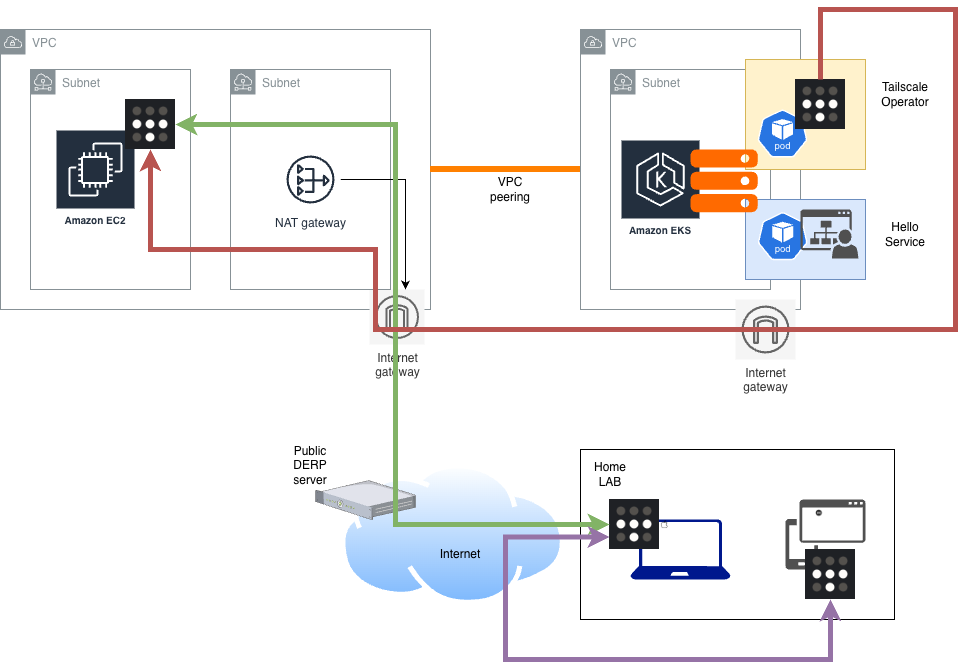
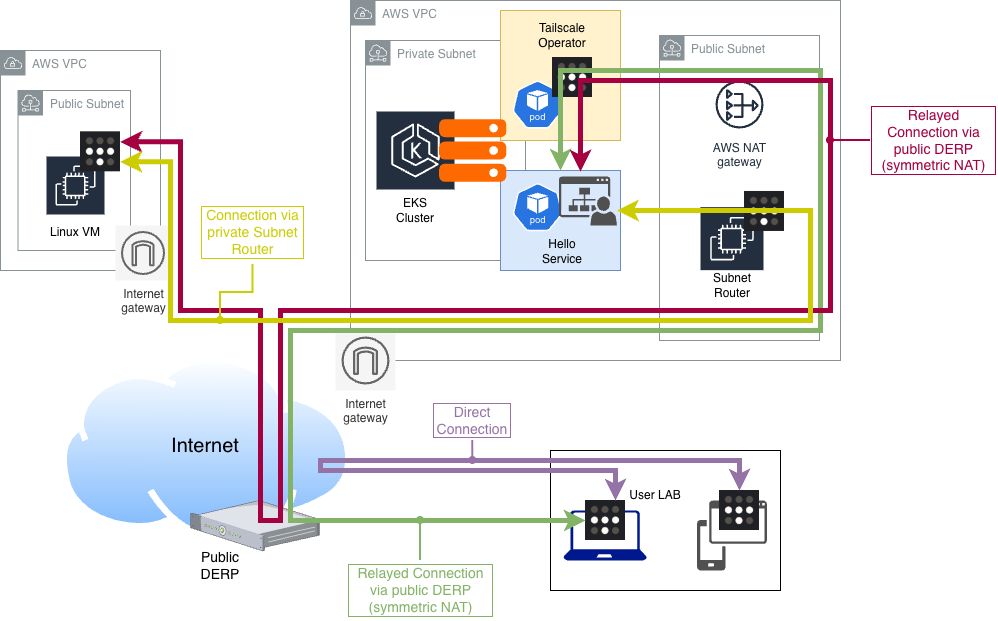
bug fixes, cleanup and design review

diff --git a/README.md b/README.md
@@ -1,19 +1,18 @@
-# Tailscale LAB for hybrid connectivity to AWS EKS
+# Tailscale Lab for hybrid connectivity to AWS EKS
 
-## Summary 
-The goal of this (very first) lab is to evaluate the following:
-* Set a CI/CD pipeline that will deploy the hybrid AWS environment using Tailscale for connectivity
-* Deploy the AWS environment (EKS + VM) and bootstrap as much as possible (both the EKS cluster as well as the basic Tailscale onboarding).
-* Include quick code toggles in the pipeline to avoid hard NAT.
-* Use basic tools to confirm connectivity and evaluate latency: ping/icmp.
-* Leverage iperf3 to test bandwidth when Tailscale connects over peering instead of IGW.
+## Summary
+This first lab evaluates the following:
+- Set up a CI/CD pipeline that deploys the hybrid AWS environment using Tailscale for connectivity.
+- Deploy the AWS environment (EKS + VM) and bootstrap as much as possible (EKS cluster and basic Tailscale onboarding).
+- Use basic tools to confirm connectivity and measure latency (ping/icmp).
 
-It is not in the scope of this Lab:
-* Harden the EKS setup as much as possible: avoid public access/endpoints and adopt a more minimalist approach instead of using the default AWS module.
-* Automate the initial onboarding of Tailscale. The lab uses a pre-existing *tsnet*.
-* Integrate Taiscale logging with Grafana to improve the performance analysis/visualization.
+Out of scope for this lab:
+- Harden the EKS setup for production (avoid public access/endpoints and adopt a minimalist approach instead of using the default AWS module).
+- Automate the initial onboarding of Tailscale; the lab uses a pre-existing *tsnet*.
+- Use iperf3 to test bandwidth when Tailscale connects via a subnet router instead of public DERP.
+- Integrate Tailscale logging with Grafana for performance analysis/visualization.
 
-**Note:** This repository first commit was 100% generated by GitHub CoPilot in less than 15m with less than 5 prompts detailing design and the separate modules: secrets, runner and the lab itself. It took me another day of work to review code, test, troubleshoot and fix bugs before I could finally leverage the lab to achieve the main goal to validate networking stats of Tailscale in AWS hybrid environment over hard and easy NATs.
+**Note:** This repository first commit was 100% generated by GitHub CoPilot in less than 15m with less than 5 prompts detailing design and its modules: secrets, runner and the lab itself. Another day of work was spent to review code, test, troubleshoot and fix bugs before the lab could be finally be leveraged to achieve the main goal to verify Tailscale newtorking in AWS hybrid environment with NAT gateway.
 
 
 ## LAB Topology
@@ -29,27 +28,27 @@ A slightly improved version (made by humans with draw.io):
 ## Repository Structure
 
 ### Folders created:
-- `terraform/runner`: Terraform to launch an EC2 instance to serve as self-hosted GitActions runner. 
-- `terraform/github-secrets`: Terraform to create GitHub Actions repository secrets to store AWS and Tailscale credentials that will be safely consumed by the pipeline. This workspace implies a local Terraform apply.
+- `terraform/runner`: Terraform to launch an EC2 instance to serve as a self-hosted GitHub Actions runner.
+- `terraform/github-secrets`: Terraform to create GitHub Actions repository secrets to store AWS and Tailscale credentials for the pipeline. This workspace implies a local `terraform apply` to upload secrets.
 
 ### Notes and caveats:
 - Set credentials via environment variables or `terraform.tfvars` when running locally. For the GitHub secrets module you must provide a `github_token` with sufficient scope and `github_owner` + `repository` where the secrets will be stored.
-- The GitHub Actions workflow reads AWS credentials from repository secrets named `AWS_ACCESS_KEY_ID`, `AWS_SECRET_ACCESS_KEY`, and `AWS_SESSION_TOKEN` while the Tailscale credentials are passed as TF_vars.
-- The lab module `terraform/lab` creates two VPCs in Oregon (`us-west-2`) and VPC peering between them. The `server` VPC contains an EKS cluster (small nodes) with a simple "hello world" deployment and the Tailscale Operator. The `client` VPC contains a Linux VM with the Tailscale client installed and configured to use `TF_VAR_tailscale_auth_key`.
+- The GitHub Actions workflow reads AWS credentials from repository secrets named `AWS_ACCESS_KEY_ID`, `AWS_SECRET_ACCESS_KEY`, and `AWS_SESSION_TOKEN`. Tailscale credentials are passed as TF_vars.
+- The `terraform/lab` module creates two VPCs in Oregon (`us-west-2`). The `server` VPC contains an EKS cluster (small nodes), a simple "hello world" deployment, and the Tailscale Operator. The `client` VPC contains a Linux VM with the Tailscale client installed and configured using `TF_VAR_tailscale_auth_key`.
 
 - The `terraform/lab` Terraform scope details:
-    - Builds two VPCs (`server` and `client`) and peering between them.
-    - Creates an EKS cluster in the `server` VPC and deploys a basic `hello` app plus the Tailscale Operator via Helm.
-    - Creates a Linux VM in a private subnet of the `client` VPC that connects to the internet via a NAT gateway and runs the Tailscale client.
-    - Provides an optional Tailscale subnet-router instance in the `client` public subnet (toggle with `TF_VAR_tailscale_subnet_router_enable`). When enabled the router will advertise the `client` VPC private subnets to Tailscale using `TF_VAR_tailscale_auth_key`.
+    - Builds two VPCs (`server` and `client`).
+    - Creates an EKS cluster in the `server` VPC and deploys a basic `hello` app and the Tailscale Operator via Helm.
+    - Creates a Linux VM in the `client` VPC that connects to the internet and runs the Tailscale client.
+    - Provides an optional Tailscale subnet-router instance (toggle with `TF_VAR_tailscale_subnet_router_enable`). When enabled, the router will advertise the `client` VPC private subnets to Tailscale using `TF_VAR_tailscale_auth_key`.
 
-- The EKS module used depends on community modules (`terraform-aws-modules/eks/aws`) and the VPC module (`terraform-aws-modules/vpc/aws`). Run `terraform init` to fetch them. These are AWS supported modules that can simplify the code structure, but as modules themselves they are usually trying to do too much, too complex and are shipped with bugs.
-- Tailscale auth keys are sensitive: set `TF_VAR_tailscale_auth_key` in environment or a secure `terraform.tfvars` file.
-- This lab is intentionally permissive from an IAM perspective and directed at experimentation — review IAM and security-group settings before using in production.
-- The runner EC2 will require admin permissions on AWS VPC, EC2, EKS, KMS, SSM, IAM and Cloudwatch logs.
+- The EKS module depends on community modules (`terraform-aws-modules/eks/aws`) and the VPC module (`terraform-aws-modules/vpc/aws`). These modules simplify code but can be very complex as its behavior changes frequently across versions.
+- Tailscale auth keys are sensitive: set `TF_VAR_tailscale_auth_key` in the environment or a secure `terraform.tfvars` file.
+- This lab is intentionally permissive from an IAM perspective. Review IAM and security-group settings before using it in your environment.
+- The runner EC2 will require admin permissions for AWS services: VPC, EC2, EKS, KMS, SSM, IAM, and CloudWatch Logs.
 
 
-### Quick local example (runner):
+### Quick local example (runner)
 ```bash
 cd terraform/runner
 terraform init
@@ -57,7 +56,7 @@ terraform plan
 terraform apply
 ```
 
-### Quick local example (github-secrets):
+### Quick local example (github-secrets)
 ```bash
 cd terraform/github-secrets
 export TF_VAR_github_token="ghp_..."
@@ -70,53 +69,53 @@ terraform init
 terraform apply
 ```
 
-### Quick example to run with GitActions:
+### Quick example to run with GitHub Actions
 Reference: https://docs.github.com/en/actions/how-tos/manage-workflow-runs/manually-run-a-workflow
-Please make sure to first upload the GitHub Secrets before proceeding.
+Make sure to upload the GitHub repository secrets before proceeding.
 
 Enter the following variables:
 ```
 Terraform target subfolder: lab
 Terraform operation: plan/apply/destroy
 AWS region: us-west-2
+S3 bucket for Terraform remote state: bucket-name
 ```
 
-## Lessons learned while using the GitHub CoPilot
-1. GitHub CoPilot was able to generate the entire setup from less than 5 prompts in less than 15 minutes, but where context was not clear it complicated things such the proper method to install Tailscale, as using a Helm Terraform resource does not seem to be wildly adopted, so it missed important dependencies and premises.
-2. The AI assistant also got confused with proper variable escaping and interpolation between Terraform *user_data* scripts and templates in Bash. Bugs!
-3. The AI assistant references were somewhat outdated, and that usually adds overhead as the AWS EKS module is quite dynamic and often changes its syntax/arguments quite often. More code review...
-4. The overall automagic documentation, comments and diagram /topology as IaC was quite resourceful and helpful.
-5. If the AI assistant gets lost on why the EKS is not finishing a deployment or exposing a service due to lack of context, it might suggest troubleshooting via *kubectl*, which will often leads to rabbit holes and complex sub-optimal code changes that force us into a feedback loop of causing another problem while fixing the previous one. Breaking the loop, starting again with fresh code and providing context helped to solve the problems. 
+## Lessons learned while using GitHub Copilot
+1. GitHub Copilot generated a usable initial draft with a few prompts, but where context was missing it suggested approaches that were incomplete or incompatible (for example, non-standard ways to install Tailscale via Helm).
+2. The assistant sometimes confused variable escaping and interpolation between Terraform `user_data` templates and Bash, which caused bugs.
+3. The AI assistant references were somewhat outdated white setting up the AWS modules. Addition code review was necessary to address incompatibilities across selected versions.
+4. The generated documentation and topology diagram were helpful as a starting point.
+5. When troubleshooting EKS deployments, avoid prolonged ad-hoc kubectl changes that can create cascading issues; instead start from a clear, minimal configuration and iterate back with the AI assistance as needed.
+6. (Updated): During the subnet-router design review, some GitHub Copilot suggestions produced hallucinations (non-existing Terraform resources or arguments). Be cautious and validate provider schemas when applying provider-specific resources.
 
 
-## (Real) Resources
-1. https://tailscale.com/kb/1236/kubernetes-operator
-2. https://github.com/tailscale/tailscale/blob/main/cmd/k8s-operator/deploy/manifests/operator.yaml
-3. https://docs.coreweave.com/docs/products/cks/clusters/coreweave-charts/tailscale-operator
-4. https://github.com/rrotaru/eks-over-tailscale/tree/main
-5. https://tailscale.com/kb/1196/security-hardening
-6. https://tailscale.com/kb/1118/custom-derp-servers
-7. https://tailscale.com/kb/1320/performance-best-practices
-8. https://aws.amazon.com/blogs/containers/simplify-network-connectivity-using-tailscale-with-amazon-eks-hybrid-nodes/
-9. https://serverascode.com/2025/01/31/tailscale-kubernetes-operator.html
-10. https://tailscale.com/kb/1210/terraform-provider
-11. https://tailscale.com/blog/kubernetes-direct-connections
-12. https://github.com/jaxxstorm/tailscale-examples
+## Resources
+1. https://tailscale.com/kb/1210/terraform-provider
+2. https://tailscale.com/blog/kubernetes-direct-connections
+3. https://tailscale.com/kb/1236/kubernetes-operator
+4. https://github.com/tailscale/tailscale/blob/main/cmd/k8s-operator/deploy/manifests/operator.yaml
+5. https://github.com/rrotaru/eks-over-tailscale/tree/main
+6. https://github.com/jaxxstorm/tailscale-examples
+7. https://tailscale.com/kb/1406/quick-guide-subnets
+8. https://tailscale.com/kb/1438/kubernetes-operator-cluster-egress#access-an-ip-address-behind-a-subnet-router
+9. https://tailscale.com/kb/1214/site-to-site
 
 
 ## What already got a PASS
 1. Terraform code for installing secrets, deploying runner and building AWS environment
 2. Basic end-to-end connectivity between all peers via Tailscale
+3. Move Tailscale ACL configs to IaC
 
 ## WIP
-1. End-to-end testing using subnet router
-2. Move Tailscale ACL configs to IaC
+1. End-to-end testing using subnet router + ExternalName Service config
+2. Move Tailscale relevant tag settings to IaC
 
 ## Possible improvements
-1. Validate steps to identify NAT types (with/without NAT gateway + relay)
-2. Verify whether client-EKS server comms can use the VPC peering path instead of double-NAT + relay
-3. Evaluate the impact on latency while using subnet routers instead of relays
-4. Move all UI Tailscale settings to IaC
-5. Automate connectivity tests
-6. Add logging/monitoring with Grafana
+1. Validate steps to identify NAT types (with/without NAT gateway + relay).
+2. ~~Verify whether client–EKS server communications can use the VPC peering path instead of double-NAT + relay~~ — currently not supported as initially intended.
+3. Evaluate the impact on latency when using subnet routers instead of relays.
+4. Move Tailscale UI settings to IaC.
+5. Automate connectivity tests.
+6. Add logging and monitoring with Grafana.
 

diff --git a/lab/topology/topology.md b/lab/topology/topology.md
@@ -6,8 +6,9 @@ Key elements:
 
 - Two VPCs in `us-west-2`:
   - `server` VPC (10.10.0.0/16): hosts an EKS cluster (control plane + managed node group) in private subnets, a `hello` deployment/service, and the Tailscale Operator installed via Helm.
-  - `client` VPC (10.20.0.0/16): hosts an Ubuntu VM in a private subnet (egress via a NAT Gateway in the public subnet) running the Tailscale client. Optionally a public-subnet Tailscale subnet router can be provisioned to advertise the client VPC private CIDRs to Tailscale.
-- A VPC peering connection connects the two VPCs allowing cross-VPC traffic between private subnets.
+  - `client` VPC (10.20.0.0/16): simplified to a single public subnet (no NAT gateway). The Ubuntu VM lives in the public subnet and has a public IP for bootstrap; it runs the Tailscale client.
+  - Optional Tailscale subnet-router is now placed in the `server` public subnet (and will have its own public IP) to advertise EKS cluster service/pod CIDRs into Tailscale.
+  - There is no VPC peering connection in this simplified design; cross-environment connectivity is expected to be provided by the Tailscale overlay network and subnet-router.
 
 
 Open `topology.png` to view the diagram. You can also render SVG:
